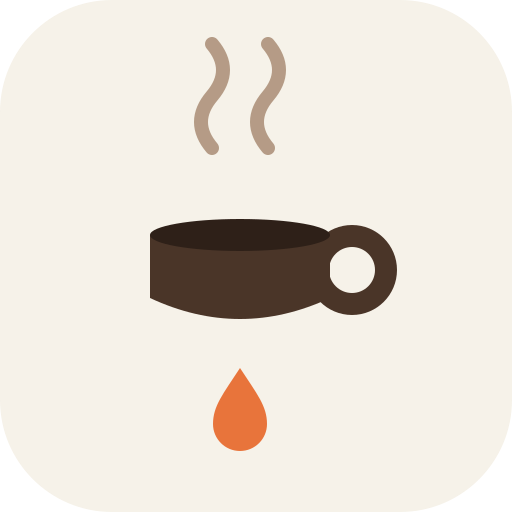
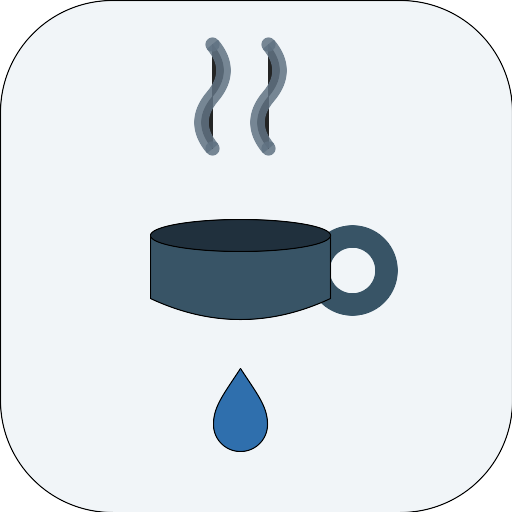
style(theme): cool application palette

diff --git a/src/routes/layout.css b/src/routes/layout.css
@@ -3,19 +3,19 @@
 /* Slow Pour Design System - Tailwind v4 Theme Customization */
 @theme {
   /* Colors */
-  --color-cream: #F6F2E9;
-  --color-card: #FCFAF5;
-  --color-ink: #2B2621;
-  --color-ink-soft: #736A5E;
-  --color-ink-faint: #A69C8C;
-  --color-line: #E6DECE;
-  --color-rust: #B24A21;
-  --color-rust-ink: #7C3216;
-  --color-rust-soft: #F2DDC8;
-  --color-teal: #2E6577;
-  --color-teal-soft: #DCEAEC;
-  --color-gold: #8A6D2F;
-  --color-gold-soft: #EFE6CD;
+  --color-cream: #F1F5F8;
+  --color-card: #FAFCFD;
+  --color-ink: #20303D;
+  --color-ink-soft: #607282;
+  --color-ink-faint: #91A2AF;
+  --color-line: #D7E1E8;
+  --color-rust: #2F6FAD;
+  --color-rust-ink: #245684;
+  --color-rust-soft: #DCEAF6;
+  --color-teal: #28758A;
+  --color-teal-soft: #D9EEF2;
+  --color-gold: #927A3B;
+  --color-gold-soft: #EEE9D7;
 
   /* Fonts */
   --font-serif: 'Fraunces', Georgia, serif;
@@ -28,7 +28,7 @@
   --radius-sm: 8px;
 
   /* Shadows */
-  --shadow-card: 0 1px 2px rgba(43,38,33,.04), 0 8px 24px -12px rgba(43,38,33,.12);
+  --shadow-card: 0 1px 2px rgba(32,48,61,.04), 0 8px 24px -12px rgba(32,48,61,.12);
 }
 
 /* Base styles */

diff --git a/src/app.html b/src/app.html
@@ -3,7 +3,7 @@
 	<head>
 		<meta charset="utf-8" />
 		<meta name="viewport" content="width=device-width, initial-scale=1" />
-		<meta name="theme-color" content="#F6F2E9" />
+		<meta name="theme-color" content="#F1F5F8" />
 		<link rel="manifest" href="/manifest.webmanifest" />
 		<link rel="apple-touch-icon" href="/icon-192.png" />
 		<link rel="preconnect" href="https://fonts.googleapis.com" />

diff --git a/vite.config.js b/vite.config.js
@@ -16,8 +16,8 @@ export default defineConfig({
 				description: 'A calm, precise pour-over companion',
 				start_url: '/',
 				scope: '/',
-				theme_color: '#F6F2E9',
-				background_color: '#F6F2E9',
+				theme_color: '#F1F5F8',
+				background_color: '#F1F5F8',
 				display: 'standalone',
 				orientation: 'portrait-primary',
 				icons: [
